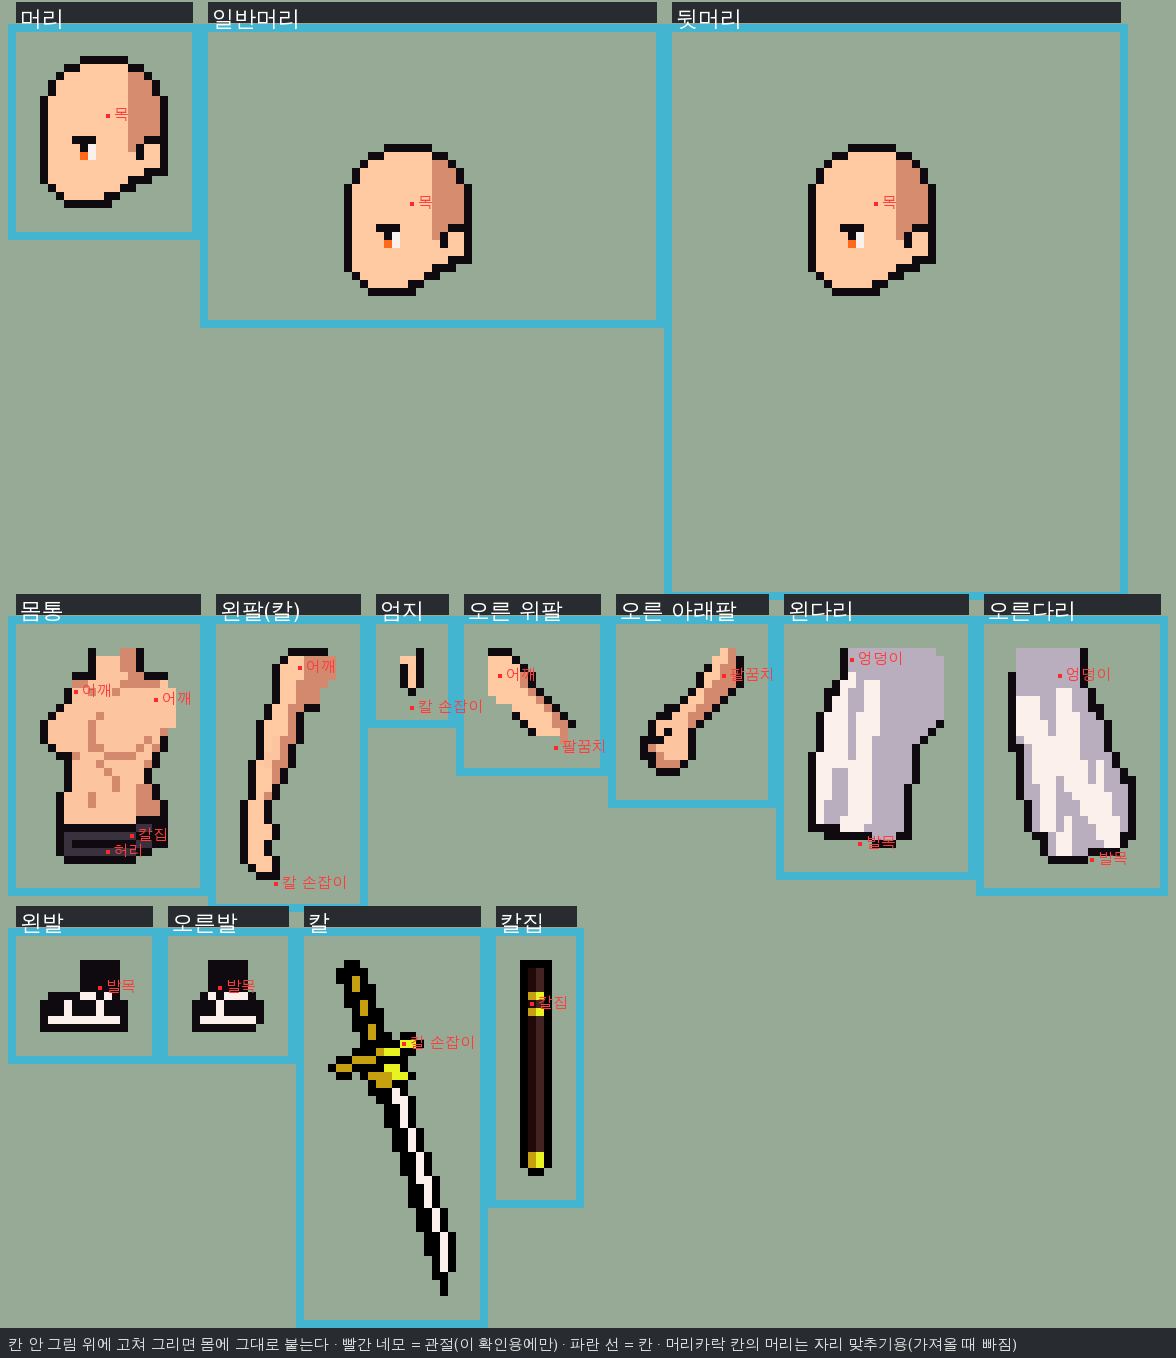
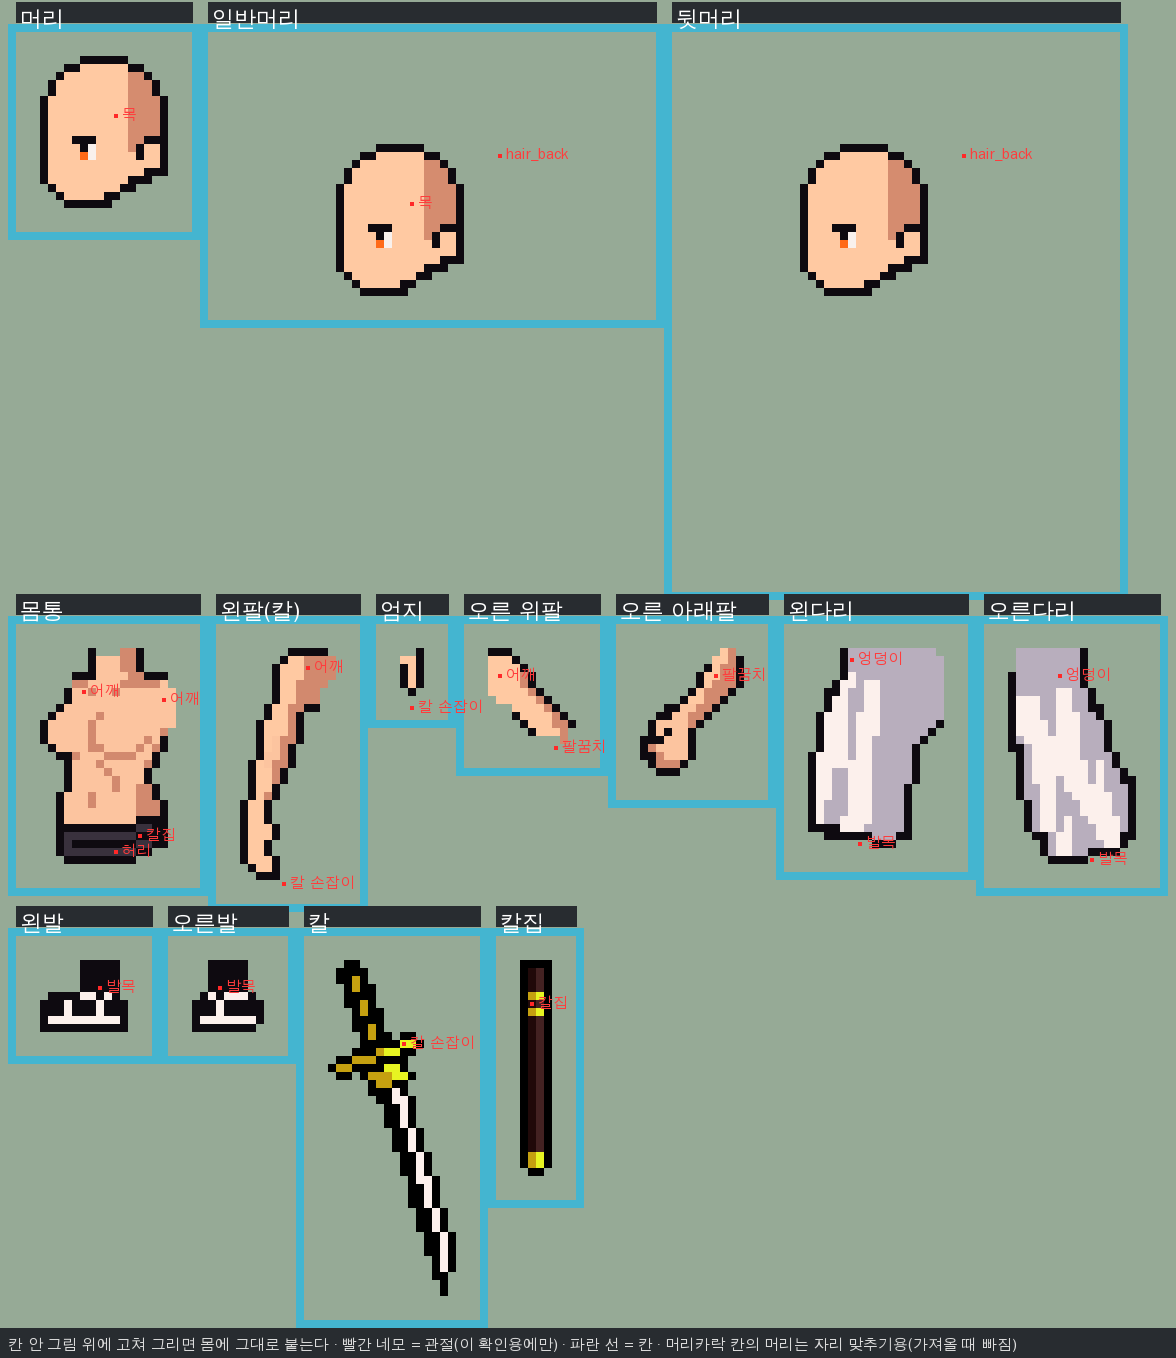
C.151 종이인형: 뒷머리 대기·걷기 리듬, 편집기 부위 묶음·미리보기 눌러 고르기
Claude-Session: https://claude.ai/code/session_011W8zFEjKADtTYyQZXReU7r

diff --git a/scripts/rig/editor-page.ts b/scripts/rig/editor-page.ts
@@ -17,7 +17,7 @@ declare const claude: {
 const FIX_DOC = 'rig/fixed';
 const DB_DOC = 'rig/editor';
 const K = 6;
-const NAMES: Record<string, string> = { root: '전체', torso: '몸통', head: '머리', arm_L: '왼팔', arm_R: '오른팔', leg_L: '왼다리', leg_R: '오른다리', hair: '일반머리', hair_back: '뒷머리', outer_torso: '겉옷(몸)', outer_arm_L: '겉옷(왼팔)', outer_arm_R: '겉옷(오른팔)', foot_L: '왼발', foot_R: '오른발', weapon: '칼', scabbard: '칼집', thumb_L: '엄지', forearm_R: '오른 아래팔' };
+const NAMES: Record<string, string> = { root: '전체', torso: '몸통', head: '머리', arm_L: '왼팔', arm_R: '오른 위팔', leg_L: '왼다리', leg_R: '오른다리', hair: '일반머리', hair_back: '뒷머리', outer_torso: '겉옷(몸)', outer_arm_L: '겉옷(왼팔)', outer_arm_R: '겉옷(오른팔)', foot_L: '왼발', foot_R: '오른발', weapon: '칼', scabbard: '칼집', thumb_L: '엄지', forearm_R: '오른 아래팔' };
 // 저장 칸 이름은 바꾸지 않는다(바꾸면 사용자가 맞춘 값이 사라진다). 옛 이름(v1~v3)에 남은 값도 읽어 온다
 const STORE = 'bha-rig-editor';
 const LEGACY = ['bha-rig-editor-v3', 'bha-rig-editor-v2', 'bha-rig-editor-v1'];
@@ -135,12 +135,38 @@ function setPivot(id: string, p: [number, number]) { (joints().pivots ??= {})[id
 function baseRot(id: string) { return (rig.bodyJoints?.[curBody()] as BodyJoints | undefined)?.rot?.[id] ?? 0; }
 function boneOfSel() { return rig.slots.find((s) => s.id === sel)?.bone ?? sel; }
 
+/** 지금 그려진 층(앞뒤 순서대로) — 미리보기를 눌러 부위 고르기용 */
+let drawn: { slot: string; m: number[]; img: HTMLImageElement; size: [number, number] }[] = [];
+const alphaCache = new Map<string, ImageData>();
+/** 캔버스 좌표 (x, y) 에서 가장 앞에 보이는 부위(투명 칸은 지나침) */
+function slotAt(x: number, y: number): string | null {
+  for (let i = drawn.length - 1; i >= 0; i--) {
+    const { slot, m, img, size } = drawn[i]!;
+    const det = m[0]! * m[3]! - m[1]! * m[2]!;
+    if (!det) continue;
+    const dx = x - m[4]!, dy = y - m[5]!;
+    const u = (m[3]! * dx - m[2]! * dy) / det;
+    const v = (-m[1]! * dx + m[0]! * dy) / det;
+    if (u < 0 || v < 0 || u >= size[0] || v >= size[1]) continue;
+    let data = alphaCache.get(img.src);
+    if (!data && img.complete && img.naturalWidth) {
+      const c = document.createElement('canvas');
+      c.width = img.naturalWidth; c.height = img.naturalHeight;
+      const ctx = c.getContext('2d');
+      if (ctx) { ctx.drawImage(img, 0, 0); data = ctx.getImageData(0, 0, c.width, c.height); alphaCache.set(img.src, data); }
+    }
+    if (!data || data.data[(Math.floor(v) * data.width + Math.floor(u)) * 4 + 3]! > 0) return slot;
+  }
+  return null;
+}
+
 function draw() {
   stage.querySelectorAll('img, .dot').forEach((n) => n.remove());
   let pose: Pose = {};
   if (motion) pose = samplePose(rig, MOTIONS[motion]!, mt);
   else if (testRot) pose = { [boneOfSel()]: { rot: testRot, x: 0, y: 0 } };
   const mats = boneMatrices(rig, pose, curBody());
+  drawn = [];
   for (const l of lookLayers(rig, look)) {
     const img = document.createElement('img');
     img.src = ART_MAP[`art/rig/humanoid/${l.art}.png`] ?? '';
@@ -150,6 +176,7 @@ function draw() {
     const m = layerMatrix(rig, mats, l, motion ? MOTIONS[motion] : undefined);
     img.style.transform = `matrix(${m[0]},${m[1]},${m[2]},${m[3]},${m[4] * K},${m[5] * K})`;
     stage.append(img);
+    drawn.push({ slot: l.slot, m, img, size: l.size });
   }
   if ((sel === 'hair' || sel === 'hair_back') && !motion) {
     const [fx, fy, fw, fh] = hairRect(rig, sel);
@@ -188,16 +215,40 @@ function draw() {
   if (bv) bv.textContent = `${baseRot(b.id)}°`;
 }
 
+/** 부위 버튼 묶음(사용자 2026-10-29 "머리부터 왼팔 오른팔 순서대로") — 이 외형에 있는 것만 */
+const CHIP_GROUPS: [string, string[]][] = [
+  ['전체', ['root']],
+  ['머리', ['head', 'hair', 'hair_back']],
+  ['몸통', ['torso', 'outer_torso']],
+  ['왼팔(칼)', ['arm_L', 'outer_arm_L', 'thumb_L']],
+  ['오른팔', ['arm_R', 'outer_arm_R', 'forearm_R']],
+  ['다리', ['leg_L', 'foot_L', 'leg_R', 'foot_R']],
+  ['칼', ['weapon', 'scabbard']],
+];
+function pick(id: string) { sel = id; testRot = 0; ($('rot') as HTMLInputElement).value = '0'; buildChips(); draw(); }
 function buildChips() {
   const box = $('parts');
   box.innerHTML = '';
-  const ids = ['root', ...rig.slots.map((s) => s.id).filter((id) => lookLayers(rig, look).some((l) => l.slot === id))];
-  for (const id of ids) {
-    const b = document.createElement('button');
-    b.textContent = NAMES[id] ?? id;
-    b.className = id === sel ? 'on' : '';
-    b.onclick = () => { sel = id; testRot = 0; ($('rot') as HTMLInputElement).value = '0'; buildChips(); draw(); };
-    box.append(b);
+  const has = new Set(['root', ...lookLayers(rig, look).map((l) => l.slot)]);
+  const listed = new Set(CHIP_GROUPS.flatMap(([, ids]) => ids));
+  const groups = [...CHIP_GROUPS, ['그 밖', [...has].filter((id) => !listed.has(id))] as [string, string[]]];
+  for (const [label, ids] of groups) {
+    const present = ids.filter((id) => has.has(id));
+    if (!present.length) continue;
+    const g = document.createElement('div');
+    g.className = 'chipgroup';
+    const t = document.createElement('span');
+    t.className = 'chiplabel';
+    t.textContent = label;
+    g.append(t);
+    for (const id of present) {
+      const b = document.createElement('button');
+      b.textContent = NAMES[id] ?? id;
+      b.className = id === sel ? 'on' : '';
+      b.onclick = () => pick(id);
+      g.append(b);
+    }
+    box.append(g);
   }
 }
 
@@ -265,12 +316,15 @@ $('copy').onclick = async () => {
   setTimeout(() => { $('copy').textContent = '값 복사'; }, 1800);
 };
 // 관절 모드에서 무대를 누르면 그 칸이 선택한 관절이 된다(움직임 멈춘 원래 자세 기준)
+// 미리보기를 누르면 그 부위를 고른다(사용자 2026-10-29). 관절 모드에서 이미 고른 부위(또는 빈 곳)를 누르면 그 칸이 관절이 된다
 stage.addEventListener('click', (e) => {
-  if (mode !== 'pivot' || motion || testRot) return;
   const r = stage.getBoundingClientRect();
-  const x = Math.floor((e.clientX - r.left) / (r.width / W));
-  const y = Math.floor((e.clientY - r.top) / (r.height / H));
-  setPivot(boneOfSel(), [x, y]);
+  const fx = (e.clientX - r.left) / (r.width / W);
+  const fy = (e.clientY - r.top) / (r.height / H);
+  const hit = slotAt(fx, fy);
+  if (hit && hit !== sel) { pick(hit); return; }
+  if (mode !== 'pivot' || motion || testRot) return;
+  setPivot(boneOfSel(), [Math.floor(fx), Math.floor(fy)]);
   save(); draw();
 });
 

diff --git a/docs/GDD.md b/docs/GDD.md
@@ -3966,5 +3966,8 @@ data/
    - 편집 중이던 오른 어깨 (22,32)·팔꿈치 (29,41)는 여성형을 고치던 중이라(여성형 아래팔 자리도 같이 바뀜) 여성형에만 넣고, 나머지 몸은 원래 (24,33)·(32,41)로 되돌림.
    - 편집기: '관절 기본 각도'(−180~180°, ±1° 버튼, 저장됨) 추가. 시험 회전은 저장 안 됨.
 34. **뒷머리 찰랑거림 (사용자 2026-10-29 원문 "뒷머리에도 움직임 추가해. 긴머림면 찰랑찰랑 거리게.")**: 뒷머리 = 머리(head)에 붙은 따로 뼈 `hair_back`(관절 = 묶은 자리 (26,11)). 동작마다 늦게 따라 흔들린다: 대기 +3~-2°, 걷기 걸음마다 0~-10°(뒤로 날림), 공격1·2 젖힐 때 +6° → 칠 때 -10° → +5°, 특수1 ±4°, 특수2 반동 때 +8°, 맞음 +10°. 뒷머리가 없는 외형은 변화 없음. 관절 자리는 편집기에서 몸마다 옮길 수 있다.
+35. **뒷머리 리듬 · 편집기 보기 편하게 (사용자 2026-10-29 원문 "뒷머리 대기에서 내려가있을 때 찰랑거리지 말고, 대기때는 내려갈 때 벌어졌다가 올라갈 때 모이고 이런식으로. 걷기도 한걸음달 찰랑거리지 말고 2걸음당 찰랑거리게 바꿔 / 그리고 툴 부위 좀 보기 편하게 해놔라. 사람 하나 그려놓고 부위별로 버튼 놓던가, 머리부터 좀 왼팔 오른팔 이렇게 순서대로 놓던가. 그리고 미리보기에서 클릭해도 그 부위 수정가능하게 바꾸고.")**
+   - 뒷머리 대기: 내쉬며 내려갈 때 뒤로 벌어지고(-4°) 내려가 있는 동안은 가만, 올라갈 때 모인다(0°). 걷기: 두 걸음(한 주기 0.64초)에 한 번(0 ~ -10°).
+   - 편집기 부위 버튼을 묶음으로: 전체 / 머리(머리·일반머리·뒷머리) / 몸통 / 왼팔(칼)(왼팔·엄지) / 오른팔(오른 위팔·오른 아래팔) / 다리(왼다리·왼발·오른다리·오른발) / 칼(칼·칼집). 미리보기를 누르면 그 자리에서 가장 앞에 보이는 부위가 골라지고, 관절 모드에서 고른 부위를 한 번 더 누르면 그 칸이 관절.
 - **구현 (C.151)**: `src/data/art/rig/pose.ts`(자세 뽑기·뼈 행렬·외형 층·데이터 점검), `src/ui/bha/paperdoll.ts`(그리기 + 동작 시계: 반복 동작, 한 번 동작 후 복귀, 타격 콜백), `room.css` `.bha-doll`. 시험 테스트 `tests/paperdoll.test.ts`. 게임 화면에는 아직 안 붙였다.
 

diff --git a/docs/dev-log.md b/docs/dev-log.md
@@ -1427,6 +1427,7 @@ C.0 ~ C.59 는 `docs/dev-log-archive.md` 로 옮겼다(2026-10-20, 사용량 절
 - 몸별 관절·기본 각도(`bodyJoints`, `bodyBones()`), 편집기 기본 각도 조절(GDD 96장 33).
 - 여성형 오른 위팔 손질 반영 + 편집기에서 맞추던 여성형 값(오른 아래팔 자리 (19,38), 기본 각도 어깨 +10°·팔꿈치 -15°) 같이 넣음 — 다시 올리면 편집기가 데이터 값으로 새로 시작해서 그대로 두면 사라지므로.
 - 뒷머리 찰랑거림(뼈 `hair_back`, 모든 동작)(GDD 96장 34). 편집 중이던 남학생 값(오른 위·아래팔 자리, 어깨 관절 (24,34), 어깨 +15°·팔꿈치 -24°)도 같이 넣음.
+- 뒷머리 대기·걷기 리듬, 편집기 부위 묶음 버튼·미리보기 눌러 고르기(GDD 96장 35). 편집 중이던 여성형 값(몸통·왼팔·머리 자리, 몸통 +3°·머리 -5°·어깨 +14°)도 같이 넣음.
 - **테스트** `tests/paperdoll.test.ts` 30개(부위 그림 크기 = 파일 크기 확인 추가, `tests/helpers/pngSize.ts`).
 - 이 브랜치에 있던 옛 홈 물건 32칸 작업(C.113 번호, main 에 안 들어감)은 main 쪽으로 되돌렸다. 도구 `scripts/depixel/`(도트 되돌리기·긴 쪽 N칸·색 수 제한·재질 2톤·줄 밀기)·`scripts/sprite-rig/`(옛 시험)는 남김.
 
